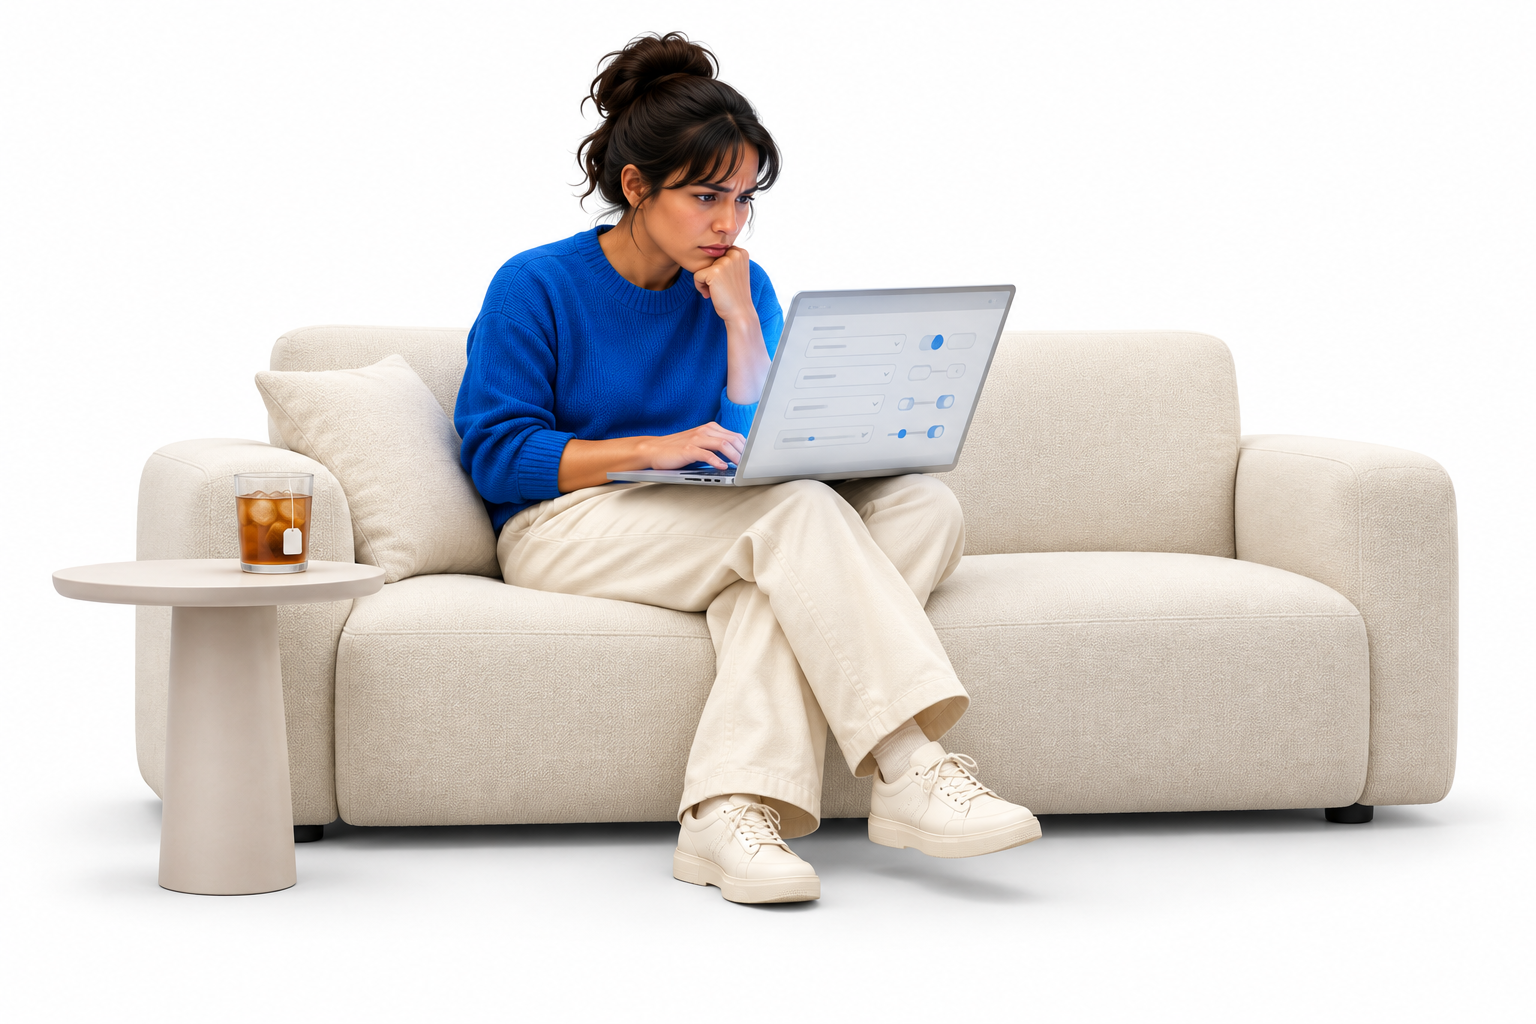
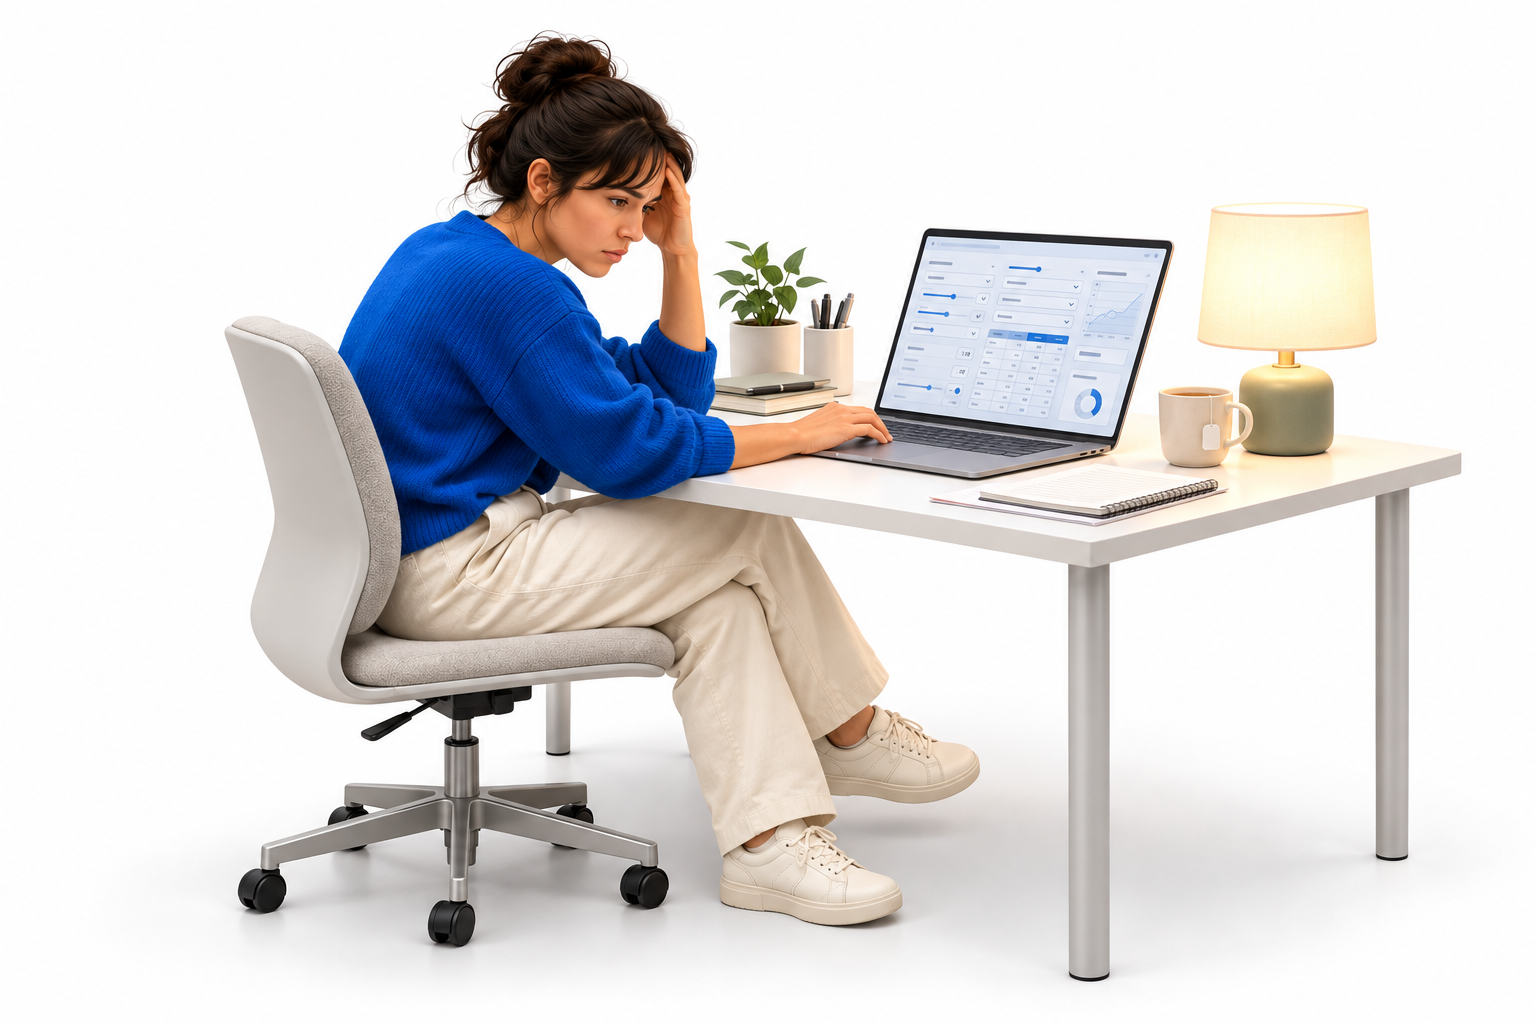
Redraw the calculator scene and drop the closing Pax line from the pitch
Also adds the Franz Laim illustration for the expert slide.

diff --git a/assets/pitch/index.html b/assets/pitch/index.html
@@ -75,8 +75,10 @@ h1,h2,h3,p,blockquote{margin:0}
 .why .bottomline{bottom:126px}
 
 /* 5 Expert quote */
-.expert{display:grid;grid-template-columns:380px 1fr;column-gap:96px;align-content:center}
-.expert img{width:380px;height:380px;object-fit:cover;border-radius:4px;background:var(--wash)}
+.expert{display:grid;grid-template-columns:470px 1fr;column-gap:72px;align-items:center;padding-top:40px;padding-bottom:40px}
+.expert img{display:block;width:470px;height:auto;mix-blend-mode:multiply;
+  -webkit-mask-image:linear-gradient(90deg,transparent,#000 7%,#000 93%,transparent),linear-gradient(180deg,transparent,#000 5%,#000 95%,transparent);-webkit-mask-composite:source-in;
+  mask-image:linear-gradient(90deg,transparent,#000 7%,#000 93%,transparent),linear-gradient(180deg,transparent,#000 5%,#000 95%,transparent);mask-composite:intersect}
 .expert blockquote{font-size:58px;line-height:1.14;font-weight:700;letter-spacing:-.03em;text-wrap:balance}
 .expert blockquote:before{content:"“";display:block;font-size:120px;line-height:.6;color:var(--purple);margin-bottom:12px}
 .expert .who{margin-top:34px;font-size:26px;color:var(--muted)}
@@ -176,7 +178,7 @@ h1,h2,h3,p,blockquote{margin:0}
 
     <!-- 5 · Expert -->
     <section class="slide expert" data-id="expert" aria-label="Quote from Franz Laim">
-      <img src="img/franz-laim.jpg" alt="Portrait of Franz Laim">
+      <img src="illustrations/franz.webp" alt="Franz Laim in a suit, smiling, explaining with an open hand">
       <div>
         <blockquote>Understand what the customer needs. Check the facts against the products. Then make it visual, so the customer understands.</blockquote>
         <p class="who"><b>Franz Laim</b>, insurance advisor</p>
@@ -218,7 +220,6 @@ h1,h2,h3,p,blockquote{margin:0}
       <h2 class="h-xl">Nobody should pay twice for bad luck.</h2>
       <div class="sign reveal" data-build="1">
         <div>
-          <p class="statement purple">We’d love to build this with Pax.</p>
           <p class="team">Pax Clara <span>by Flurin Laim and Joel Müller, Team A4</span></p>
         </div>
         <figure class="qr"><svg aria-hidden="true" xmlns="http://www.w3.org/2000/svg" viewBox="0 0 25 25" shape-rendering="crispEdges"><path stroke="#1c1a22" d="M0 0.5h7m2 0h1m1 0h1m2 0h1m1 0h1m1 0h7M0 1.5h1m5 0h1m6 0h1m1 0h2m1 0h1m5 0h1M0 2.5h1m1 0h3m1 0h1m1 0h1m1 0h1m1 0h1m1 0h3m1 0h1m1 0h3m1 0h1M0 3.5h1m1 0h3m1 0h1m1 0h1m1 0h1m1 0h4m2 0h1m1 0h3m1 0h1M0 4.5h1m1 0h3m1 0h1m1 0h3m1 0h2m2 0h1m1 0h1m1 0h3m1 0h1M0 5.5h1m5 0h1m1 0h1m4 0h1m1 0h1m2 0h1m5 0h1M0 6.5h7m1 0h1m1 0h1m1 0h1m1 0h1m1 0h1m1 0h7M8 7.5h1m2 0h1m2 0h3M0 8.5h1m1 0h5m3 0h1m1 0h2m1 0h1m2 0h5M0 9.5h2m1 0h1m3 0h2m1 0h1m2 0h1m2 0h1m2 0h1m3 0h1M1 10.5h1m3 0h2m6 0h4m1 0h1m2 0h1m1 0h2M0 11.5h4m1 0h1m1 0h1m2 0h2m5 0h2m5 0h1M0 12.5h1m1 0h1m3 0h2m1 0h1m2 0h4m1 0h4m1 0h3M0 13.5h1m1 0h2m1 0h1m2 0h2m2 0h2m2 0h2m1 0h1m1 0h1m1 0h1M0 14.5h1m1 0h1m3 0h4m3 0h4m2 0h3m1 0h2M0 15.5h1m1 0h2m1 0h1m1 0h1m2 0h1m3 0h3m1 0h3m3 0h1M0 16.5h1m1 0h1m2 0h2m1 0h1m1 0h1m1 0h9m1 0h1M8 17.5h1m1 0h2m1 0h1m1 0h2m3 0h2M0 18.5h7m2 0h1m2 0h3m1 0h1m1 0h1m1 0h1m1 0h3M0 19.5h1m5 0h1m1 0h2m1 0h1m4 0h1m3 0h2M0 20.5h1m1 0h3m1 0h1m1 0h1m2 0h10m1 0h1M0 21.5h1m1 0h3m1 0h1m1 0h1m2 0h1m1 0h1m2 0h1m1 0h1m1 0h5M0 22.5h1m1 0h3m1 0h1m1 0h3m3 0h2m5 0h2m1 0h1M0 23.5h1m5 0h1m2 0h2m1 0h1m3 0h2m1 0h3m2 0h1M0 24.5h7m1 0h1m1 0h5m4 0h6"/></svg>
@@ -239,7 +240,7 @@ const notes = {
   demo: ["1:15–2:25", "Flurin. Switch to the browser: Jane's conversation, ask the Swiss German question, the pension picture with the three pillars, the disability gap of CHF 1'239, the recommendation (Erwerbsunfähigkeit, CHF 15'000 a year, CHF 741.40), sign it, the policy in the portal, then the company cockpit. Flip the language switch once (FR/IT/EN). Jane must sign the disability cover, not the death cover, so the numbers match the rewind slide. Backup: press B or . (clicker black-screen key) or V. The next click ends the backup and moves on."],
   rewind: ["2:25–2:40", "Joel. 'Rewind. We can't stop May from getting sick.' Click: 'But we can stop it from breaking his family.' Click: 'The Müllers closed their gap in one conversation, for CHF 741 a year. About two francs a day.'"],
   side: ["2:40–2:55", "Flurin. 'Clara is on the customer's side.' Click: 'When the Smiths didn't need anything, Clara told them': their CHF 500'000 already covers the gap, so she advised against tying it into a product. Click: every recommendation is explained and logged, so Pax can audit it. Click: complex cases, for example large assets or self-employed, go to a Pax advisor; the rules are written in plain words. Click: it runs on Pax's own servers."],
-  close: ["2:55–3:00", "Joel. 'Nobody should pay twice for bad luck.' Click: 'We'd love to build this with Pax.' Thank you. Leave this slide up during Q&A so the jury can scan the code and try Clara. Q&A facts: numbers come from Logismata and Pax's tariff, our own Swiss German speech model, runs on Pax's own servers."]
+  close: ["2:55–3:00", "Joel. 'Nobody should pay twice for bad luck.' Thank you. Leave this slide up during Q&A so the jury can scan the code and try Clara. Q&A facts: numbers come from Logismata and Pax's tariff, our own Swiss German speech model, runs on Pax's own servers."]
 };
 
 const stage = document.querySelector("#stage");

diff --git a/assets/pitch/present.html b/assets/pitch/present.html
@@ -77,8 +77,10 @@ h1,h2,h3,p,blockquote{margin:0}
 .why .bottomline{bottom:126px}
 
 /* 5 Expert quote */
-.expert{display:grid;grid-template-columns:380px 1fr;column-gap:96px;align-content:center}
-.expert img{width:380px;height:380px;object-fit:cover;border-radius:4px;background:var(--wash)}
+.expert{display:grid;grid-template-columns:470px 1fr;column-gap:72px;align-items:center;padding-top:40px;padding-bottom:40px}
+.expert img{display:block;width:470px;height:auto;mix-blend-mode:multiply;
+  -webkit-mask-image:linear-gradient(90deg,transparent,#000 7%,#000 93%,transparent),linear-gradient(180deg,transparent,#000 5%,#000 95%,transparent);-webkit-mask-composite:source-in;
+  mask-image:linear-gradient(90deg,transparent,#000 7%,#000 93%,transparent),linear-gradient(180deg,transparent,#000 5%,#000 95%,transparent);mask-composite:intersect}
 .expert blockquote{font-size:58px;line-height:1.14;font-weight:700;letter-spacing:-.03em;text-wrap:balance}
 .expert blockquote:before{content:"“";display:block;font-size:120px;line-height:.6;color:var(--purple);margin-bottom:12px}
 .expert .who{margin-top:34px;font-size:26px;color:var(--muted)}
@@ -178,7 +180,7 @@ h1,h2,h3,p,blockquote{margin:0}
 
     <!-- 5 · Expert -->
     <section class="slide expert" data-id="expert" aria-label="Quote from Franz Laim">
-      <img src="img/franz-laim.jpg" alt="Portrait of Franz Laim">
+      <img src="illustrations/franz.webp" alt="Franz Laim in a suit, smiling, explaining with an open hand">
       <div>
         <blockquote>Understand what the customer needs. Check the facts against the products. Then make it visual, so the customer understands.</blockquote>
         <p class="who"><b>Franz Laim</b>, insurance advisor</p>
@@ -220,7 +222,6 @@ h1,h2,h3,p,blockquote{margin:0}
       <h2 class="h-xl">Nobody should pay twice for bad luck.</h2>
       <div class="sign reveal" data-build="1">
         <div>
-          <p class="statement purple">We’d love to build this with Pax.</p>
           <p class="team">Pax Clara <span>by Flurin Laim and Joel Müller, Team A4</span></p>
         </div>
         <figure class="qr"><svg aria-hidden="true" xmlns="http://www.w3.org/2000/svg" viewBox="0 0 25 25" shape-rendering="crispEdges"><path stroke="#1c1a22" d="M0 0.5h7m2 0h1m1 0h1m2 0h1m1 0h1m1 0h7M0 1.5h1m5 0h1m6 0h1m1 0h2m1 0h1m5 0h1M0 2.5h1m1 0h3m1 0h1m1 0h1m1 0h1m1 0h1m1 0h3m1 0h1m1 0h3m1 0h1M0 3.5h1m1 0h3m1 0h1m1 0h1m1 0h1m1 0h4m2 0h1m1 0h3m1 0h1M0 4.5h1m1 0h3m1 0h1m1 0h3m1 0h2m2 0h1m1 0h1m1 0h3m1 0h1M0 5.5h1m5 0h1m1 0h1m4 0h1m1 0h1m2 0h1m5 0h1M0 6.5h7m1 0h1m1 0h1m1 0h1m1 0h1m1 0h1m1 0h7M8 7.5h1m2 0h1m2 0h3M0 8.5h1m1 0h5m3 0h1m1 0h2m1 0h1m2 0h5M0 9.5h2m1 0h1m3 0h2m1 0h1m2 0h1m2 0h1m2 0h1m3 0h1M1 10.5h1m3 0h2m6 0h4m1 0h1m2 0h1m1 0h2M0 11.5h4m1 0h1m1 0h1m2 0h2m5 0h2m5 0h1M0 12.5h1m1 0h1m3 0h2m1 0h1m2 0h4m1 0h4m1 0h3M0 13.5h1m1 0h2m1 0h1m2 0h2m2 0h2m2 0h2m1 0h1m1 0h1m1 0h1M0 14.5h1m1 0h1m3 0h4m3 0h4m2 0h3m1 0h2M0 15.5h1m1 0h2m1 0h1m1 0h1m2 0h1m3 0h3m1 0h3m3 0h1M0 16.5h1m1 0h1m2 0h2m1 0h1m1 0h1m1 0h9m1 0h1M8 17.5h1m1 0h2m1 0h1m1 0h2m3 0h2M0 18.5h7m2 0h1m2 0h3m1 0h1m1 0h1m1 0h1m1 0h3M0 19.5h1m5 0h1m1 0h2m1 0h1m4 0h1m3 0h2M0 20.5h1m1 0h3m1 0h1m1 0h1m2 0h10m1 0h1M0 21.5h1m1 0h3m1 0h1m1 0h1m2 0h1m1 0h1m2 0h1m1 0h1m1 0h5M0 22.5h1m1 0h3m1 0h1m1 0h3m3 0h2m5 0h2m1 0h1M0 23.5h1m5 0h1m2 0h2m1 0h1m3 0h2m1 0h3m2 0h1M0 24.5h7m1 0h1m1 0h5m4 0h6"/></svg>
@@ -241,7 +242,7 @@ const notes = {
   demo: ["1:15–2:25", "Flurin. Switch to the browser: Jane's conversation, ask the Swiss German question, the pension picture with the three pillars, the disability gap of CHF 1'239, the recommendation (Erwerbsunfähigkeit, CHF 15'000 a year, CHF 741.40), sign it, the policy in the portal, then the company cockpit. Flip the language switch once (FR/IT/EN). Jane must sign the disability cover, not the death cover, so the numbers match the rewind slide. Backup: press B or . (clicker black-screen key) or V. The next click ends the backup and moves on."],
   rewind: ["2:25–2:40", "Joel. 'Rewind. We can't stop May from getting sick.' Click: 'But we can stop it from breaking his family.' Click: 'The Müllers closed their gap in one conversation, for CHF 741 a year. About two francs a day.'"],
   side: ["2:40–2:55", "Flurin. 'Clara is on the customer's side.' Click: 'When the Smiths didn't need anything, Clara told them': their CHF 500'000 already covers the gap, so she advised against tying it into a product. Click: every recommendation is explained and logged, so Pax can audit it. Click: complex cases, for example large assets or self-employed, go to a Pax advisor; the rules are written in plain words. Click: it runs on Pax's own servers."],
-  close: ["2:55–3:00", "Joel. 'Nobody should pay twice for bad luck.' Click: 'We'd love to build this with Pax.' Thank you. Leave this slide up during Q&A so the jury can scan the code and try Clara. Q&A facts: numbers come from Logismata and Pax's tariff, our own Swiss German speech model, runs on Pax's own servers."]
+  close: ["2:55–3:00", "Joel. 'Nobody should pay twice for bad luck.' Thank you. Leave this slide up during Q&A so the jury can scan the code and try Clara. Q&A facts: numbers come from Logismata and Pax's tariff, our own Swiss German speech model, runs on Pax's own servers."]
 };
 
 const stage = document.querySelector("#stage");

diff --git a/assets/pitch/README.md b/assets/pitch/README.md
@@ -20,4 +20,4 @@ Illustrations in `illustrations/` were generated with Codex image generation in 
 the originals. Survey figures: Generali, May 2025 (1'016 people).
 
 Screenshots in `img/` come from the jury-persona run (Jane Müller) and the live company cockpit on
-31.10.2026. The portrait of Franz Laim is from Helvetia's public Zürich Nord agency page.
+31.10.2026. The full-body illustration of Franz Laim (`illustrations/franz.png`) was generated with Codex image generation from his portrait (best likeness of three runs) in `img/franz-laim.jpg` (Helvetia's public Zürich Nord agency page), without the lapel pin.
